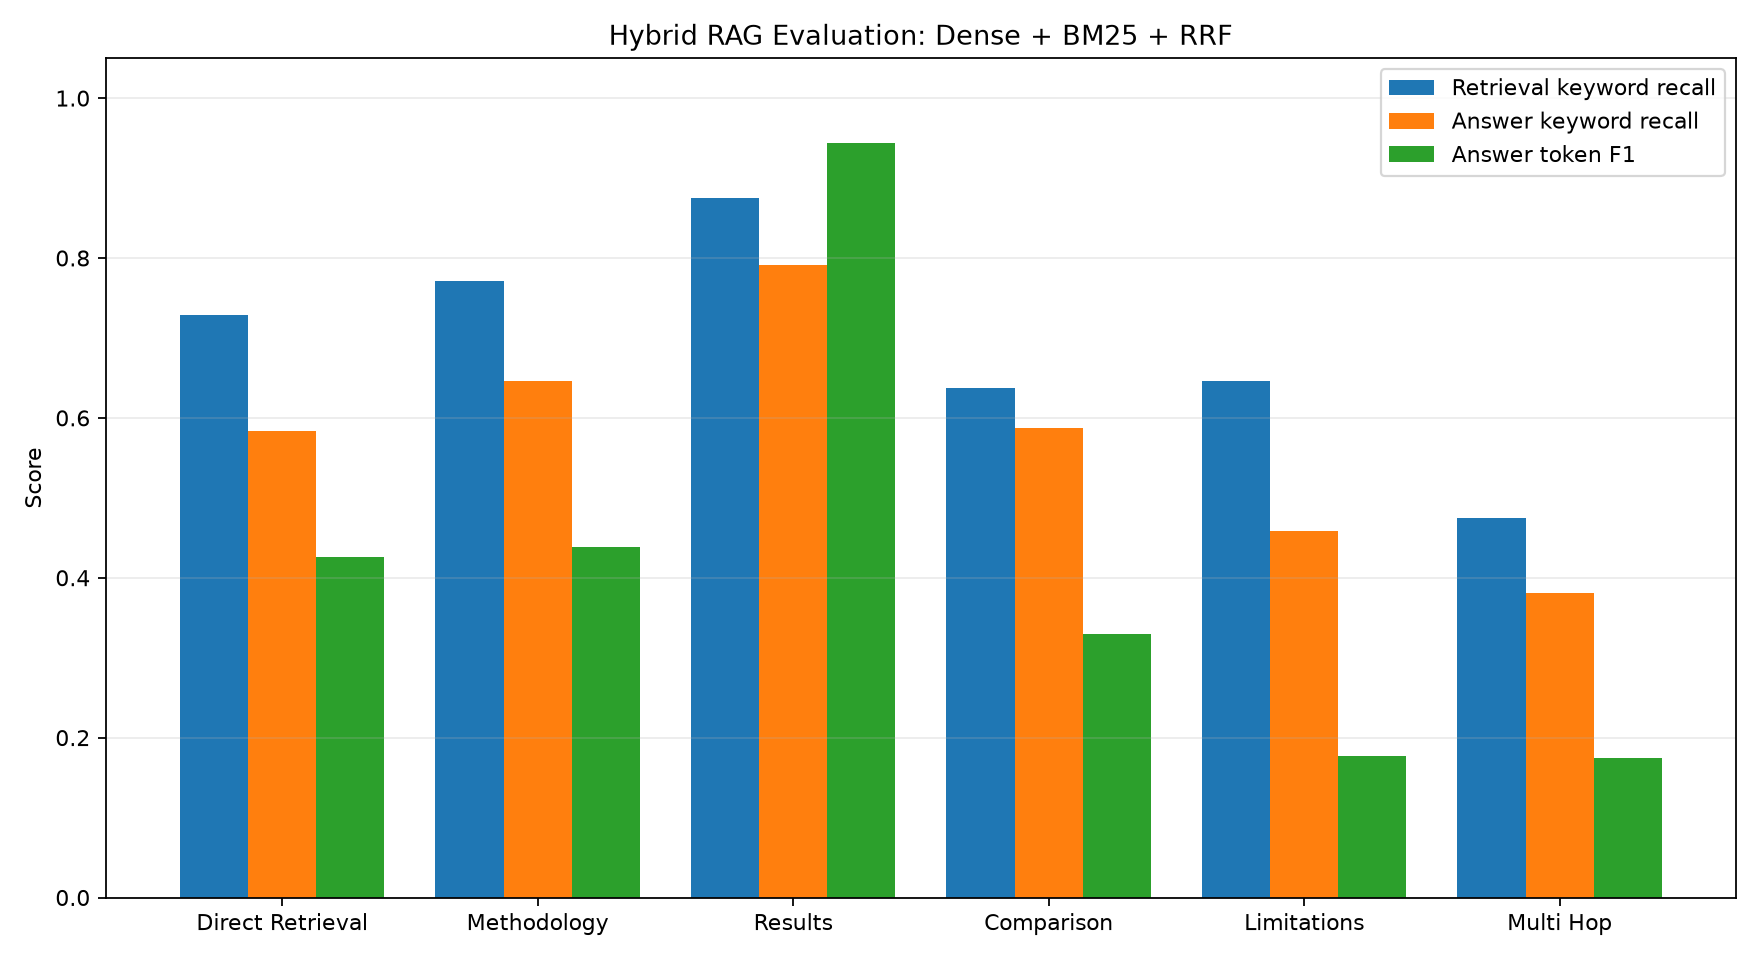
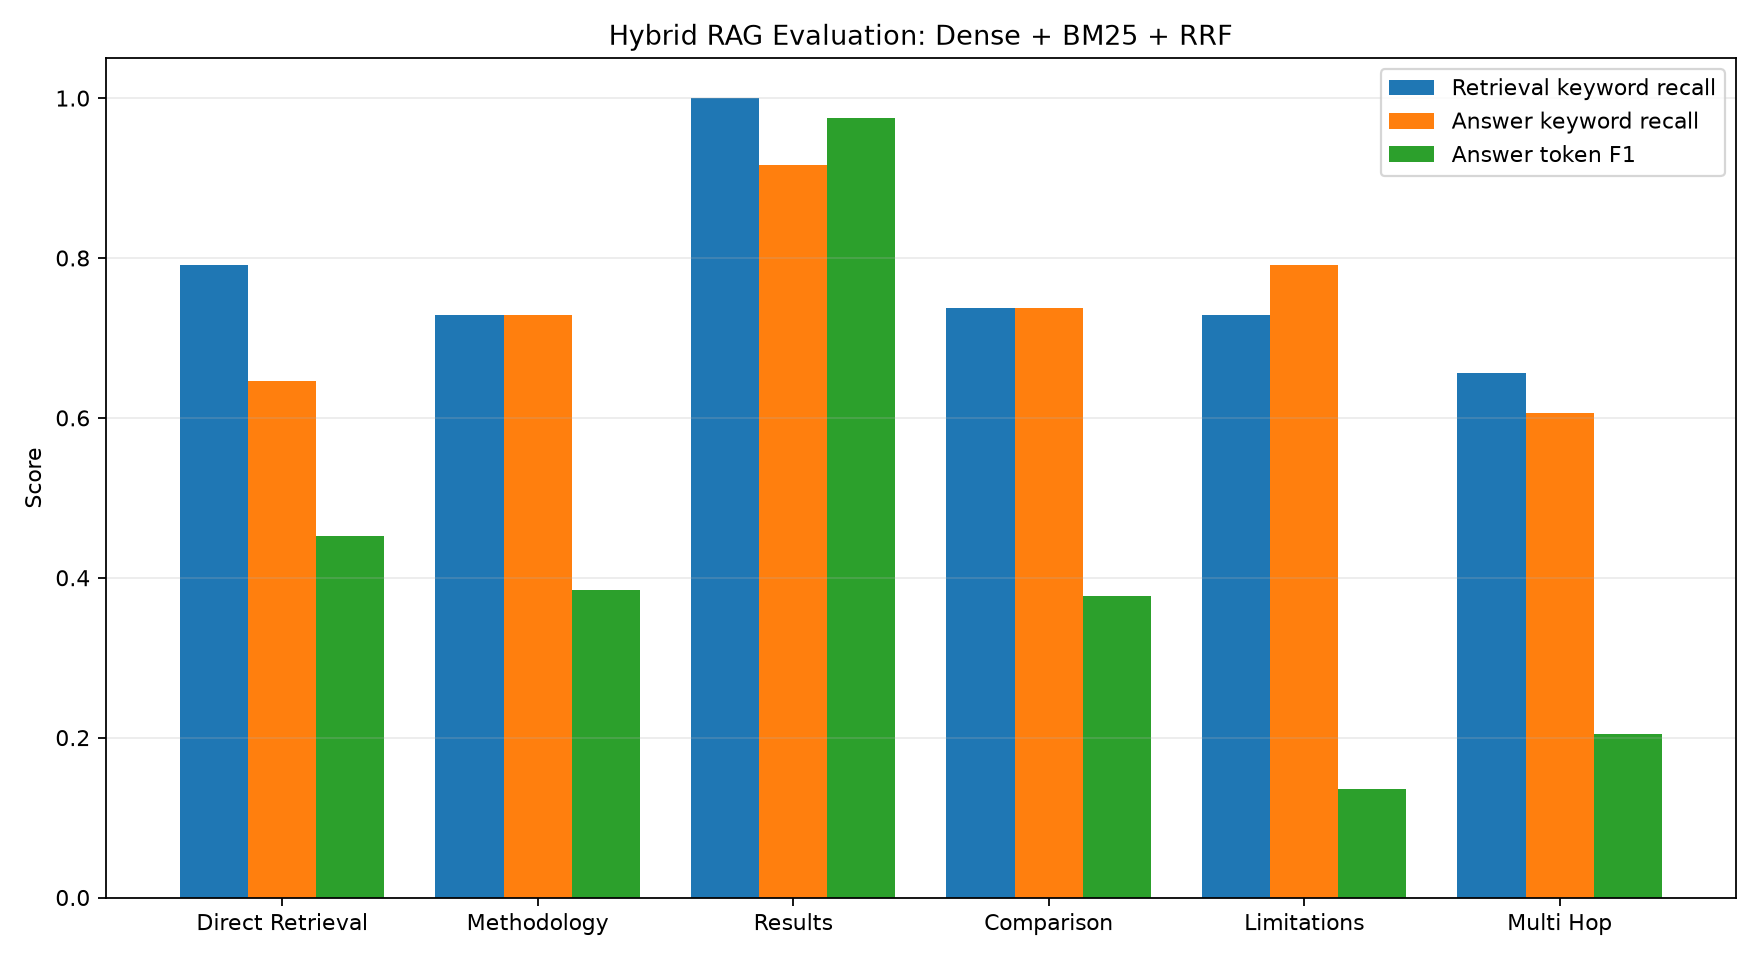
Add CrossEncoder reranking to hybrid retrieval

diff --git a/retrieval.py b/retrieval.py
@@ -2,12 +2,18 @@ import re
 from functools import lru_cache
 from pathlib import Path
 
+from dotenv import load_dotenv
 from langchain_core.documents import Document
 from rank_bm25 import BM25Okapi
+from sentence_transformers import CrossEncoder
 
 from chunker import chunk_documents
 from loader import load_paper
 from vector_store import DEFAULT_INDEX_PATH, load_vector_store
+
+
+load_dotenv()
+RERANKER_MODEL = "cross-encoder/ms-marco-MiniLM-L-6-v2"
 
 
 def _tokenize(text: str) -> list[str]:
@@ -55,6 +61,30 @@ def reciprocal_rank_fusion(
     return [(documents[key], scores[key]) for key in ranked_documents]
 
 
+@lru_cache(maxsize=1)
+def _create_reranker() -> CrossEncoder:
+    """Load the local cross-encoder once per process."""
+    return CrossEncoder(RERANKER_MODEL)
+
+
+def rerank(
+    query: str,
+    candidates: list[tuple[Document, float]],
+    k: int,
+) -> list[tuple[Document, float]]:
+    """Rerank RRF candidates using query-document relevance scores."""
+    if not candidates:
+        return []
+
+    pairs = [(query, document.page_content) for document, _ in candidates]
+    relevance_scores = _create_reranker().predict(pairs)
+    reranked = [
+        (document, float(score))
+        for (document, _), score in zip(candidates, relevance_scores, strict=True)
+    ]
+    return sorted(reranked, key=lambda item: item[1], reverse=True)[:k]
+
+
 def hybrid_retrieve(
     query: str,
     k: int = 4,
@@ -62,7 +92,7 @@ def hybrid_retrieve(
     candidate_k: int | None = None,
     rrf_k: int = 60,
 ) -> list[tuple[Document, float]]:
-    """Fuse dense FAISS and sparse BM25 rankings with RRF."""
+    """Fuse dense and sparse rankings, then rerank the RRF candidates."""
     if not query.strip():
         raise ValueError("query must not be empty")
     if k < 1:
@@ -70,14 +100,15 @@ def hybrid_retrieve(
     if rrf_k < 1:
         raise ValueError("rrf_k must be at least 1")
 
-    candidates = max(k, candidate_k or k)
-    return reciprocal_rank_fusion(
+    candidates = max(k, candidate_k or max(10, k * 3))
+    fused = reciprocal_rank_fusion(
         [
             dense_retrieve(query, k=candidates, index_path=index_path),
             bm25_retrieve(query, k=candidates),
         ],
         k=rrf_k,
-    )[:k]
+    )
+    return rerank(query, fused, k=k)
 
 
 def retrieve(

diff --git a/tests/test_retrieval.py b/tests/test_retrieval.py
@@ -4,7 +4,7 @@ from unittest.mock import patch
 from langchain_core.documents import Document
 
 from evaluate import keyword_recall, token_f1
-from retrieval import hybrid_retrieve, reciprocal_rank_fusion
+from retrieval import hybrid_retrieve, reciprocal_rank_fusion, rerank
 
 
 class RetrievalTests(unittest.TestCase):
@@ -29,11 +29,24 @@ class RetrievalTests(unittest.TestCase):
 
         with patch("retrieval.dense_retrieve", return_value=dense) as dense_mock:
             with patch("retrieval.bm25_retrieve", return_value=sparse) as sparse_mock:
-                results = hybrid_retrieve("test query", k=1)
+                with patch("retrieval.rerank", side_effect=lambda query, items, k: items[:k]) as rerank_mock:
+                    results = hybrid_retrieve("test query", k=1)
 
         dense_mock.assert_called_once()
         sparse_mock.assert_called_once()
+        rerank_mock.assert_called_once()
         self.assertEqual(len(results), 1)
+
+    def test_rerank_orders_candidates_by_cross_encoder_score(self) -> None:
+        first = Document(page_content="first")
+        second = Document(page_content="second")
+
+        with patch("retrieval._create_reranker") as model_factory:
+            model_factory.return_value.predict.return_value = [0.1, 0.9]
+            results = rerank("query", [(first, 1.0), (second, 0.5)], k=2)
+
+        self.assertEqual([document.page_content for document, _ in results], ["second", "first"])
+        self.assertEqual(results[0][1], 0.9)
 
     def test_hybrid_retrieval_rejects_empty_queries(self) -> None:
         with self.assertRaises(ValueError):

diff --git a/REPORT.md b/REPORT.md
@@ -4,10 +4,10 @@
 
 Implemented an end-to-end retrieval-augmented generation system for the lung cancer CT scan research paper.
 
-The final retrieval pipeline is hybrid search:
+The final retrieval pipeline is hybrid search with reranking:
 
 ```text
-Dense FAISS search + Sparse BM25 search + Reciprocal Rank Fusion (RRF)
+Dense FAISS search + Sparse BM25 search + Reciprocal Rank Fusion (RRF) + CrossEncoder reranking
 ```
 
 Retrieved context is sent to Gemini through OpenRouter to generate grounded answers.
@@ -21,6 +21,7 @@ Retrieved context is sent to Gemini through OpenRouter to generate grounded answ
 - Added dense semantic retrieval with FAISS.
 - Added sparse lexical retrieval with Okapi BM25.
 - Combined dense and sparse rankings with RRF.
+- Reranked the RRF candidate pool with a local CrossEncoder.
 - Added Gemini access through OpenRouter.
 - Added a CLI for question answering in `rag.py`.
 - Added a Gradio chatbot in `app.py`.
@@ -59,7 +60,8 @@ rag_paper/
    RRF score = 1 / (60 + rank)
    ```
 
-5. The highest-ranked fused chunks are passed to the language model.
+5. The fused candidates are reranked by `cross-encoder/ms-marco-MiniLM-L-6-v2` using query-chunk relevance scores.
+6. The highest-ranked reranked chunks are passed to the language model.
 
 ## Evaluation
 
@@ -67,11 +69,11 @@ The evaluation dataset contains 24 questions across direct retrieval, methodolog
 
 Latest full evaluation:
 
-- Retrieval keyword recall: **68.9%**
-- Answer keyword recall: **57.5%**
-- Answer token F1: **41.5%**
+- Retrieval keyword recall: **77.4%**
+- Answer keyword recall: **73.8%**
+- Answer token F1: **42.2%**
 
-The hybrid retriever improved retrieval keyword recall from the previous dense-only score of **61.7%** to **68.9%**.
+The CrossEncoder reranker improved retrieval keyword recall from the previous RRF score of **68.9%** to **77.4%**. Compared with the previous full evaluation, answer keyword recall increased from **57.5%** to **73.8%**, while answer token F1 increased from **41.5%** to **42.2%**.
 
 Generated files:
 
@@ -142,7 +144,7 @@ uv run python evaluate.py --retrieval-only
 
 ## Current Limitations
 
-- The RRF constant and candidate depth are fixed defaults.
+- The RRF constant, candidate depth, and reranker model are fixed defaults.
 - BM25 is rebuilt in memory when the process starts.
 - Evaluation uses keyword recall and token F1 rather than a semantic judge.
 - The chatbot answers each turn independently and does not use conversation history.

diff --git a/README.md b/README.md
@@ -11,6 +11,7 @@ cp .env.example .env
 ```
 
 Add your OpenRouter API key to `.env`. Gemini will be accessed through OpenRouter using the configured `OPENROUTER_MODEL`.
+If Hugging Face requires authentication when downloading the reranker, also add `HF_TOKEN` to `.env`.
 
 ## Load the Cleaned Paper
 
@@ -58,7 +59,7 @@ Use `retrieve()` when scores and document metadata are needed, or `build_context
 
 ## Ask Questions With Naive RAG
 
-The RAG flow combines dense FAISS search and sparse BM25 search with Reciprocal Rank Fusion (RRF), then sends the top chunks as context to Gemini through OpenRouter:
+The RAG flow combines dense FAISS search and sparse BM25 search with Reciprocal Rank Fusion (RRF), reranks the candidates with a local CrossEncoder, then sends the top chunks as context to Gemini through OpenRouter:
 
 ```bash
 uv run python rag.py "What accuracy did VGG16 achieve?"
@@ -88,7 +89,7 @@ This generates `data/evaluation/naive_rag_performance.png` and `data/evaluation/
 uv run python evaluate.py --retrieval-only
 ```
 
-The retriever combines dense FAISS similarity and sparse BM25 rankings with RRF. The evaluation command prints the current scores for the 24-question dataset; generation scores can vary slightly between model responses.
+The retriever combines dense FAISS similarity and sparse BM25 rankings with RRF, then applies `cross-encoder/ms-marco-MiniLM-L-6-v2` to rerank the candidate chunks. The evaluation command prints the current scores for the 24-question dataset; generation scores can vary slightly between model responses.
 
 Run the network-free unit tests:
 
